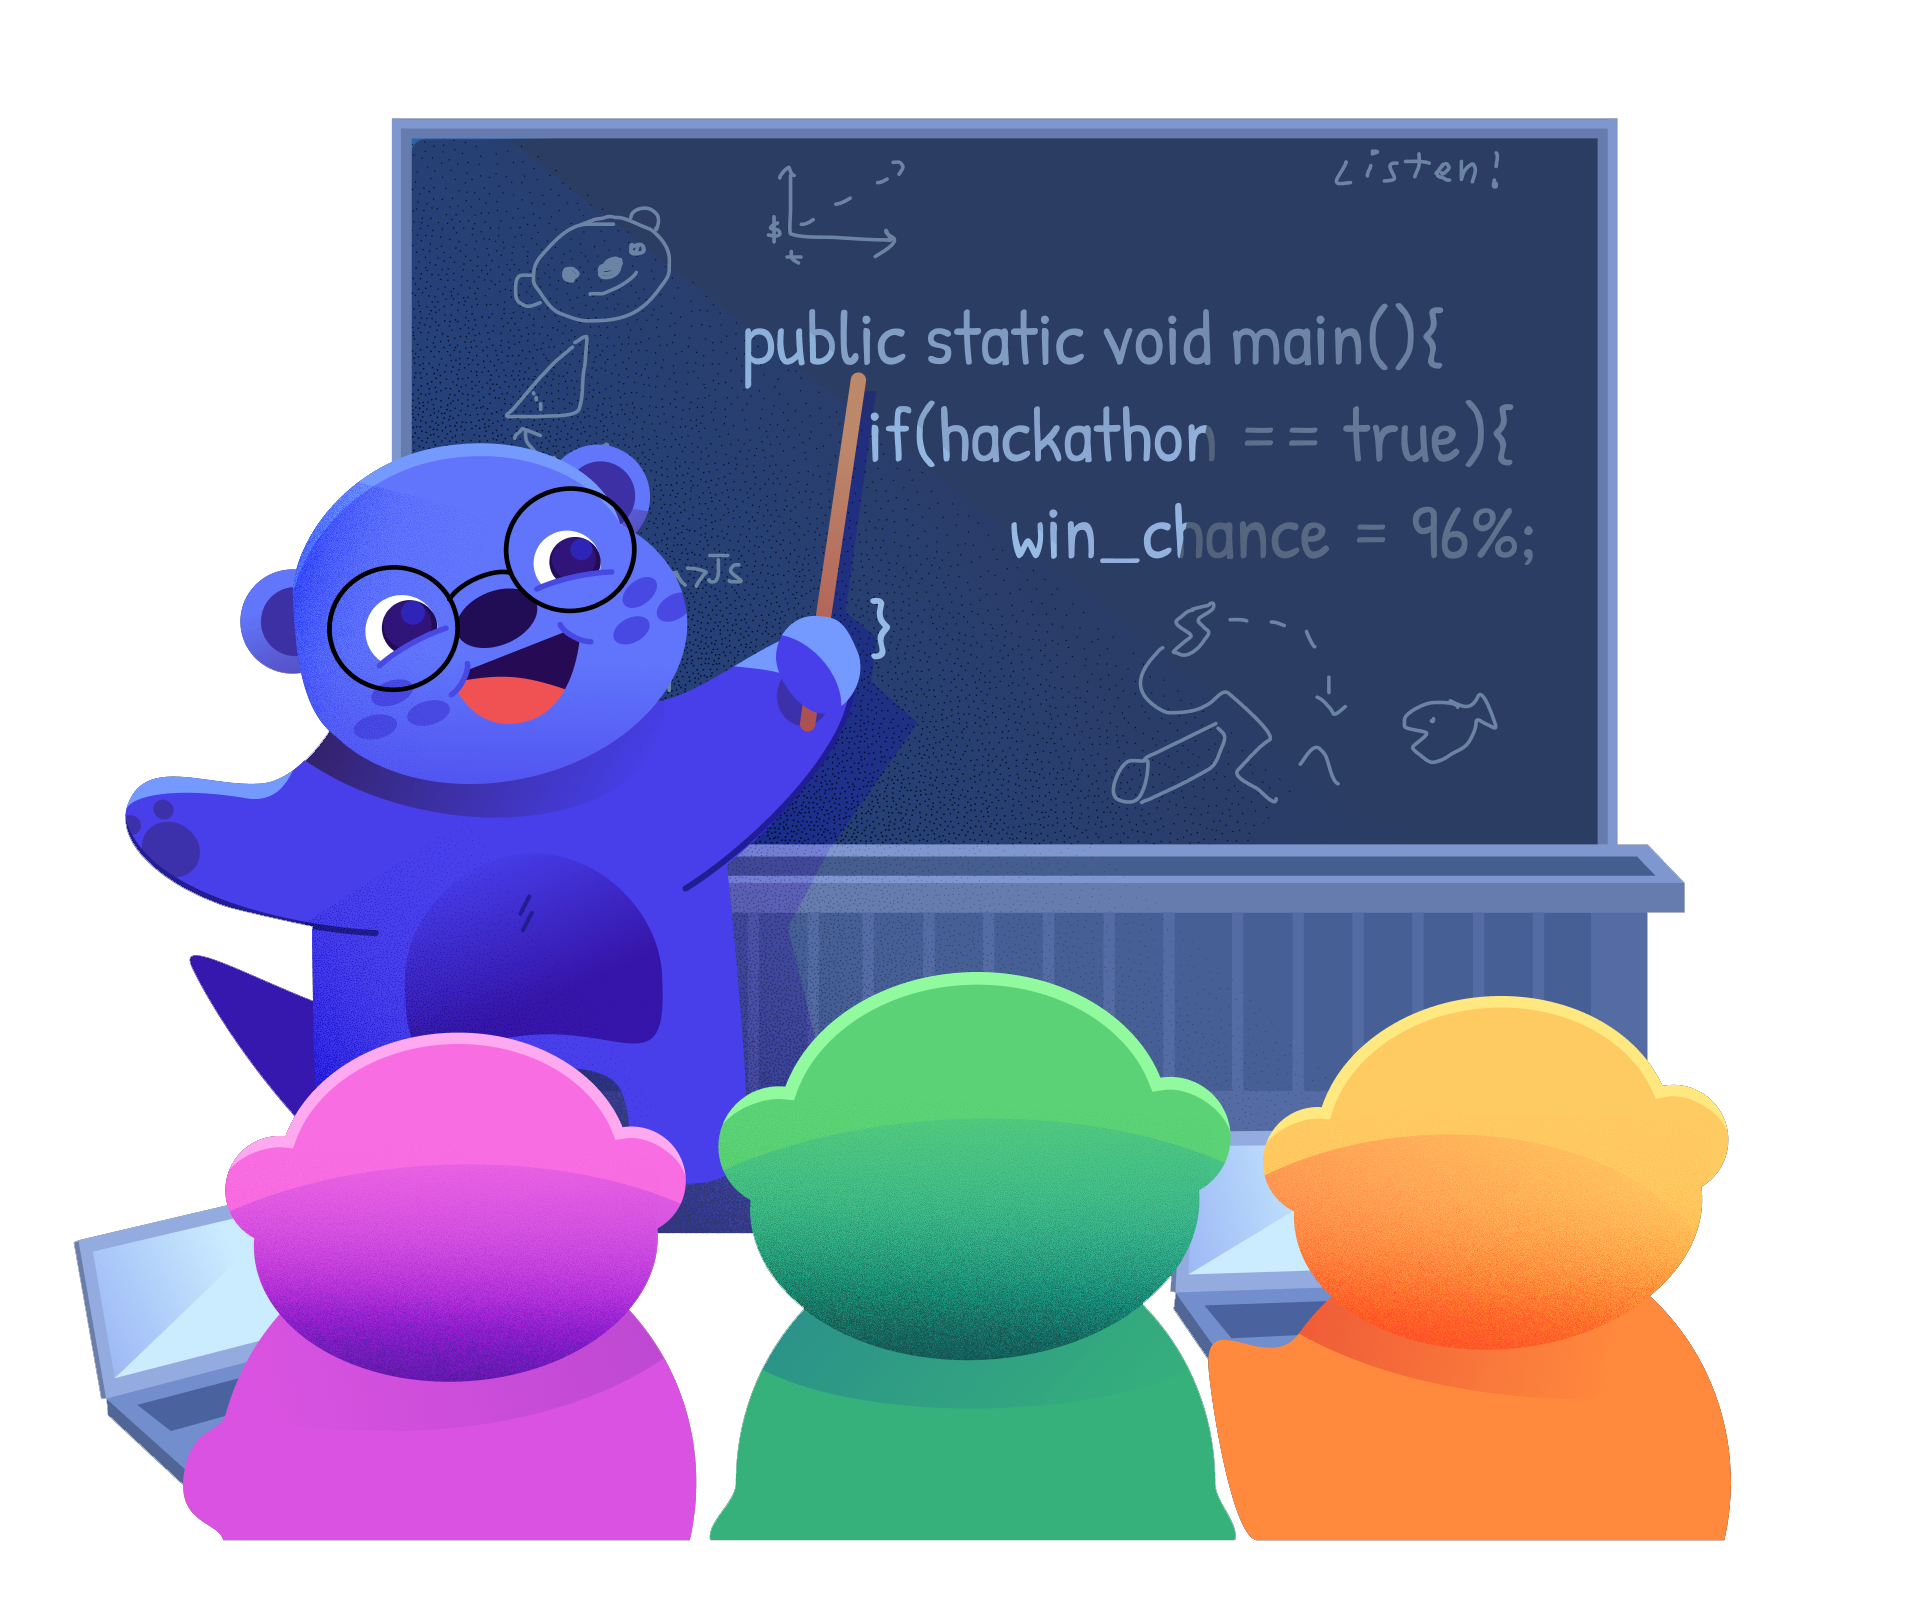
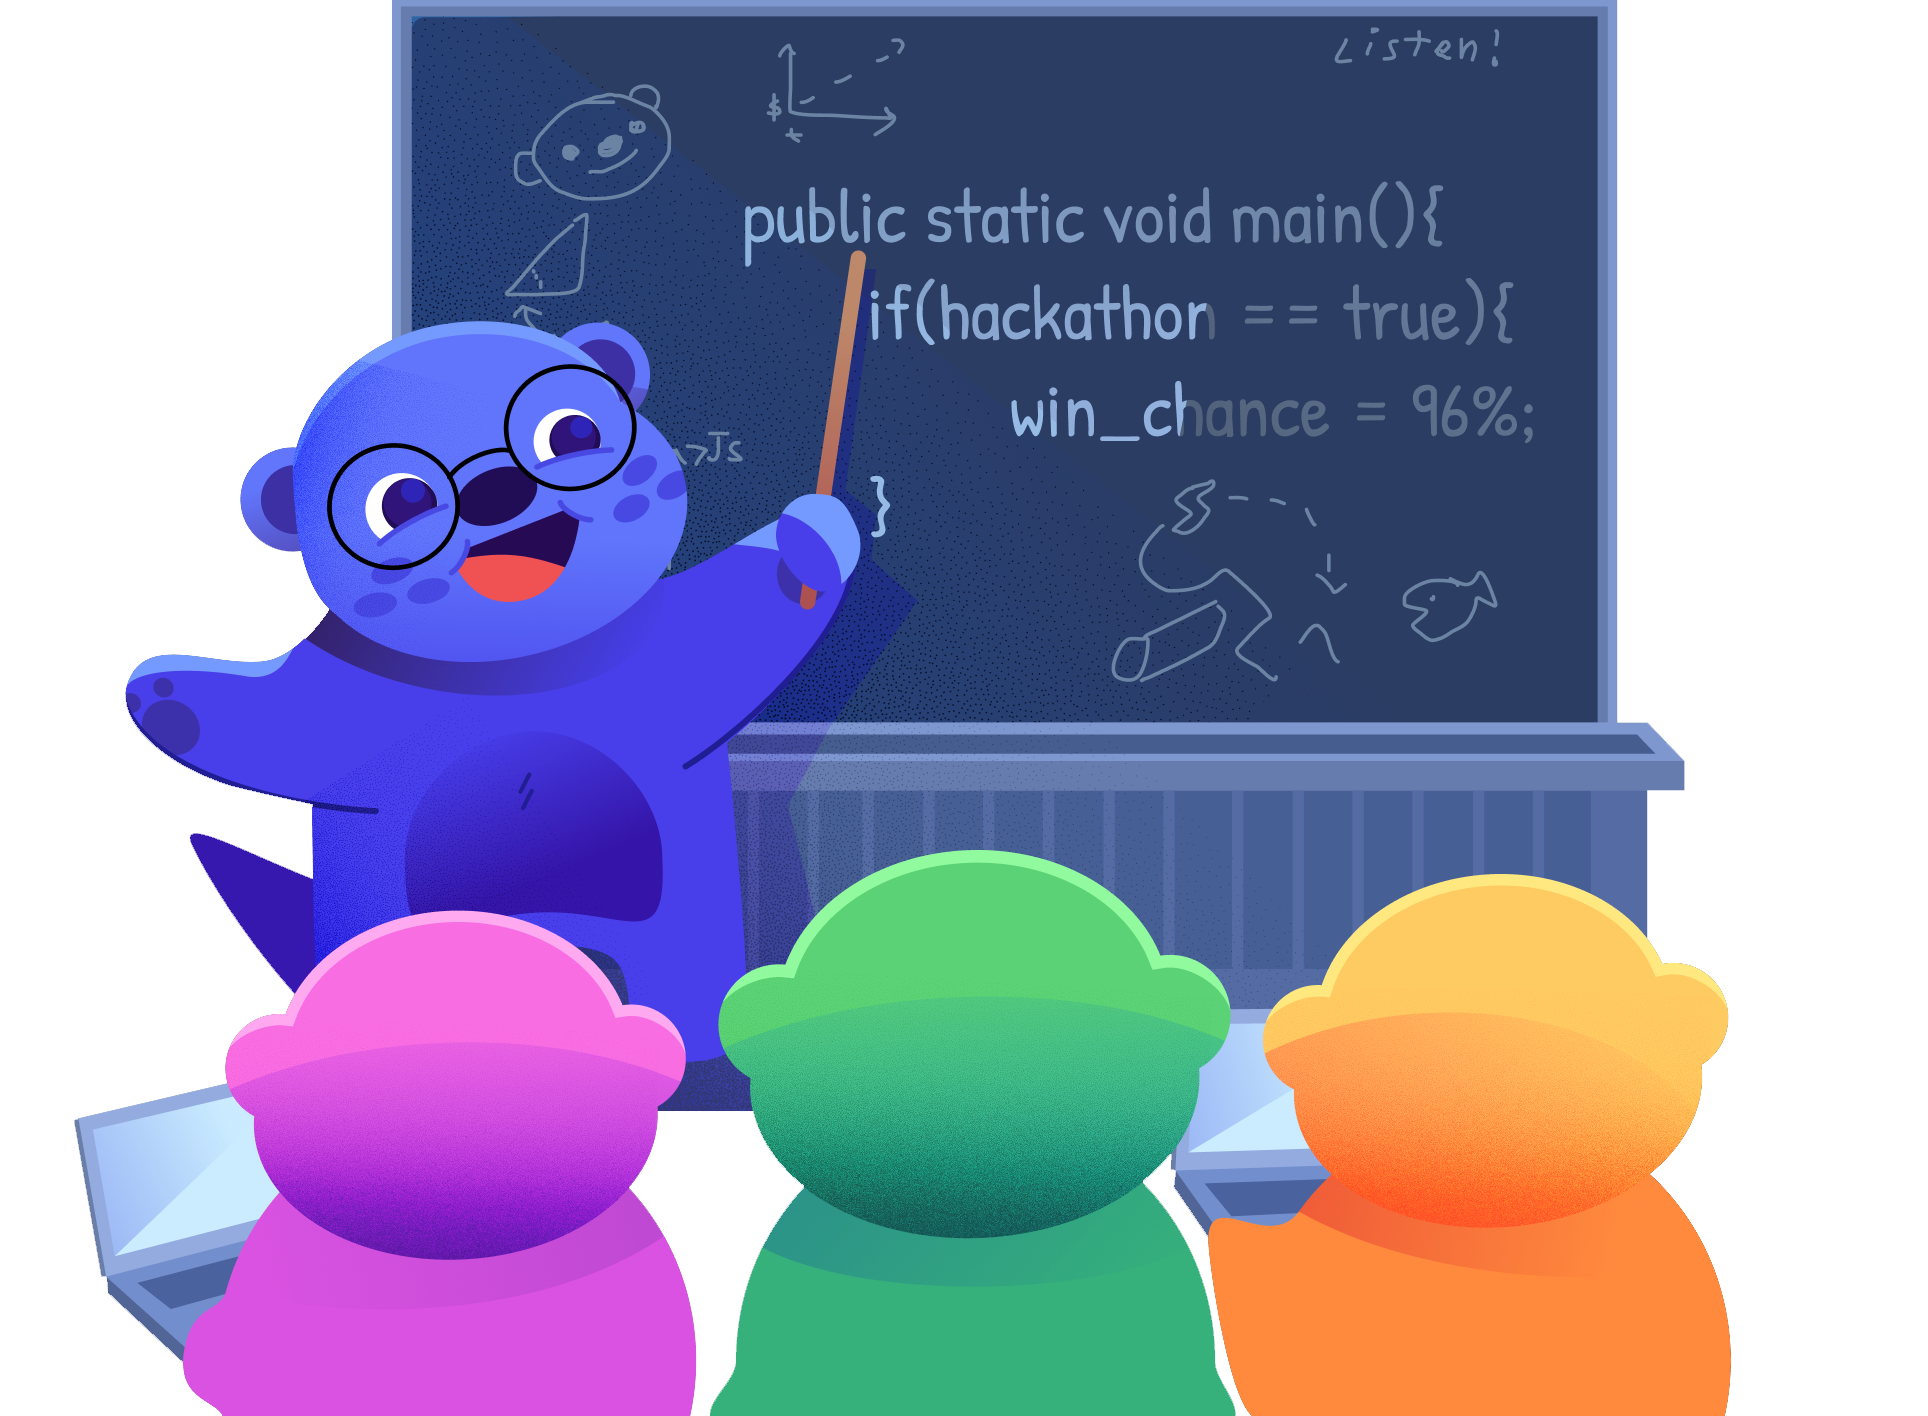
added logic for switch roles
moved section needing "use client" into its own component. Renamed some components to be more relevant to their section

diff --git a/src/app/join/page.tsx b/src/app/join/page.tsx
@@ -1,29 +1,33 @@
 import type { Metadata } from "next";
-import jobs from "@/lib/jobListing.json";
-import Link from "next/link";
 import Image from "next/image";
-import JobCard from "@/components/JobCard";
 import Card from "@/components/Card";
+import OpenRolesSection from "@/components/OpenRolesSection";
+
 
 export const metadata: Metadata = {
   title: "Join SFU Surge",
 };
 
 export default function joinTeam() {
+
+  
+
   return (
-    <main className="flex flex-col gap-24">
-      <section className="grid grid-cols-1 gap-12 md:grid-cols-2">
-        <div className="flex md:justify-center  ">
+    <main className="flex flex-col gap-24 md:gap-36">
+
+      <section className="flex  md:flex-row  w-full gap-8 lg:gap-12 flex-col-reverse items-center justify-center ">
+
+      <div className="flex md:justify-center h-full md:w-[40%]   ">
           <Image
             src={"/boo.png"}
-            width={1928}
-            height={1598}
+            width={1659}
+            height={1421}
             alt={"hello"}
-            className="object-contain  "
+            className="object-contain max-h-full"
           />
         </div>
 
-        <div className="flex flex-col gap-5 justify-center">
+      <div className="flex flex-col gap-5 justify-center w-fit  ">
           <h1 className="large-title emphasized text-pretty max-w-xl">
             Ready to Make an Impact With Surge?
           </h1>
@@ -32,13 +36,13 @@ export default function joinTeam() {
             technology, design, and beyond. Whether you're passionate about
             coding, logistics, or media, your skills can make a difference.{" "}
           </p>
-        </div>
+        </div>  
+        
+        
       </section>
 
       <section className="flex flex-col items-center text-center gap-2">
-        <span className="text-caption">
-          Benefits
-        </span>
+        <span className="text-caption">Benefits</span>
         <h2 className="title-1 emphasized mb-12"> Why Volunteer With Surge?</h2>
 
         <div className="grid grid-cols-1 md:grid-cols-3 gap-8">
@@ -62,29 +66,16 @@ export default function joinTeam() {
       </section>
 
       <section className="flex flex-col items-center text-center gap-2">
-        <span className="text-caption">
-          Upcoming Oppurtunity
-        </span>
+        <span className="text-caption">Upcoming Oppurtunity</span>
         <h2 className="title-1 emphasized mb-4"> Stormhacks 2024</h2>
-        <p className="paragraph">Join us as we prepare for our upcoming Hackathon event, where your contributions could help shape the future of technology! Be part of the team that brings innovative ideas to life.</p>
-        
+        <p className="paragraph">
+          Join us as we prepare for our upcoming Hackathon event, where your
+          contributions could help shape the future of technology! Be part of
+          the team that brings innovative ideas to life.
+        </p>
       </section>
 
-      <div className="grid grid-cols-1 md:grid-cols-2 lg:grid-cols-3 gap-8">
-        {jobs.length != 0 ? (
-          jobs.map((job, index) => (
-            <JobCard
-              url={`join/${job.url}`}
-              key={index}
-              title={job.title}
-              description={job.about}
-              team={job.team}
-            />
-          ))
-        ) : (
-          <div>no Jobs available</div>
-        )}
-      </div>
+     <OpenRolesSection/>
     </main>
   );
 }

diff --git a/src/components/OpenRolesSection.tsx b/src/components/OpenRolesSection.tsx
@@ -1,0 +1,84 @@
+"use client";
+import jobs from "@/lib/jobListing.json";
+import JobCard from "@/components/JobCard";
+import { teams } from "@/app/about/teamData";
+import { useEffect, useState } from "react";
+
+import JobTeamButton from "./JobTeamButton";
+
+export default function OpenRolesSection() {
+  const [activeButton, setActiveButton] = useState<string | null>(null);
+
+  useEffect(() => {
+    const selectedTeam = localStorage.getItem("selectedTeam") || "All";
+    setActiveButton(selectedTeam);
+  },[]);
+
+  const changeTeam = (buttonId: string) => {
+    setActiveButton(buttonId);
+    localStorage.setItem("selectedTeam", buttonId);
+  };
+
+  return (
+    <section className="flex items-center flex-col gap-12">
+      <div className=" max-w-xl text-center">
+        <span className="text-caption">Open Roles</span>
+      <h2 className="title-1">We want you to help us run hackathons and events</h2>
+
+      </div>
+     
+      <div className=" flex items-center justify-center max-w-3xl gap-2 flex-wrap">
+        <JobTeamButton
+          buttonFunction={() => changeTeam("All")}
+          key={0}
+          title="All"
+          icon={teams[1].icon}
+          isActive={activeButton === "All"}
+        />
+        {teams.map((team) => {
+          return (
+            <JobTeamButton
+              buttonFunction={() => changeTeam(team.name)}
+              key={team.id}
+              title={team.name}
+              icon={team.icon}
+              isActive={activeButton === team.name}
+            />
+          );
+        })}
+      </div>
+
+      <div className="grid grid-cols-1 md:grid-cols-2 lg:grid-cols-3 w-full gap-8">
+        {/* check if theres jobs? */}
+        {jobs.length !== 0 ? (
+          // there is jobs. Does the chosen team (active button) have any roles in the array OR is the active button set to all?
+          jobs.some((job) => job.team === activeButton) ||
+          activeButton === "All" ? (
+            jobs.map((job, index) =>
+              // there is a role in the chosen team available. what role is available OR is it the active button thats checked? if first then spit out roles, if second spit out all
+              activeButton === job.team || activeButton === "All" ? (
+                <JobCard
+                  url={`join/${job.url}`}
+                  key={index}
+                  title={job.title}
+                  description={job.about}
+                  team={job.team}
+                />
+              ) : // otherwise dont render anything (applies to other indexes when looping)
+              null
+            )
+          ) : (
+            // Otherwise there is no jobs and we're not selected on all
+            <div className="col-span-full w-full relative h-56 bg-overlay/80 rounded-2xl flex justify-center items-center">
+              <p className=" paragraph text-center text-pretty ">
+               {`There are currently no jobs available in ${activeButton}, check back later!`}
+              </p>
+            </div>
+          )
+        ) : (
+          <div>No jobs available</div> // this handles the case when there are no jobs in the array
+        )}
+      </div>
+    </section>
+  );
+}

diff --git a/src/app/join/[jobId]/page.tsx b/src/app/join/[jobId]/page.tsx
@@ -1,7 +1,6 @@
 import jobs from "@/lib/jobListing.json"; // Assuming your jobs.json file is here
 import { Metadata } from "next";
 
-
 type JobPageProps = {
   params: {
     jobId: string;
@@ -22,8 +21,8 @@ export default function JobPage({ params: { jobId } }: JobPageProps) {
   const job = jobs.find((job) => job.url === jobId);
 
   return (
-    <main className="flex gap-12 md:gap-12 flex-col md:flex-row">
-      <div className="flex flex-col gap-5 md:w-[40%]">
+    <main className="flex gap-12 xl:gap-48 flex-col md:flex-row w-full justify-center">
+      <div className="flex flex-col gap-5  ">
         <h1 className="large-title emphasized">{job?.title}</h1>
         <div className=" flex flex-col gap-2">
           <span className="text-base text-text-secondary font-medium flex gap-2">
@@ -80,14 +79,11 @@ export default function JobPage({ params: { jobId } }: JobPageProps) {
           </span>
         </div>
 
-        <a
-          href={`${job?.listing}`}
-          className=" button-link primary md items-center "
-        >
+        <a href={`${job?.listing}`} className=" button-link primary md w-full md:w-fit items-center justify-center ">
           Apply Now
         </a>
       </div>
-      <div className="flex flex-col gap-12">
+      <div className="flex flex-col gap-12  ">
         <div>
           <h2 className="title-2 mb-4">About this Role</h2>
           <p className="text-text-secondary paragraph">{job?.about}</p>
@@ -96,7 +92,9 @@ export default function JobPage({ params: { jobId } }: JobPageProps) {
           <h2 className="title-2 mb-4">Responsibilities</h2>
           <ul className="paragraph flex flex-col gap-2 text-text-secondary list-disc list-outside px-5">
             {job?.resonsibilities.map((responsibility, index) => (
-              <li className="text-lg leading-8" key={index}>{responsibility}</li>
+              <li className="text-lg leading-8" key={index}>
+                {responsibility}
+              </li>
             ))}
           </ul>
         </div>
@@ -104,7 +102,9 @@ export default function JobPage({ params: { jobId } }: JobPageProps) {
           <h2 className="title-2 mb-4">Skills</h2>
           <ul className="paragraph flex flex-col gap-2 text-text-secondary list-disc list-outside px-5">
             {job?.skills.map((responsibility, index) => (
-              <li className="text-lg leading-8" key={index}>{responsibility}</li>
+              <li className="text-lg leading-8" key={index}>
+                {responsibility}
+              </li>
             ))}
           </ul>
         </div>
@@ -112,7 +112,9 @@ export default function JobPage({ params: { jobId } }: JobPageProps) {
           <h2 className="title-2 mb-4">Commitement</h2>
           <ul className="paragraph flex flex-col gap-2 text-text-secondary list-disc list-outside px-5">
             {job?.commitment.map((responsibility, index) => (
-              <li className="text-lg leading-8" key={index}>{responsibility}</li>
+              <li className="text-lg leading-8" key={index}>
+                {responsibility}
+              </li>
             ))}
           </ul>
         </div>

diff --git a/src/app/globals.css b/src/app/globals.css
@@ -34,7 +34,7 @@
 
 @layer components {
   .button-link {
-    @apply border-t border-border-tertiary/15 block cursor-pointer rounded-full w-fit flex items-center transition-colors;
+    @apply border-t border-border-tertiary/15 cursor-pointer rounded-full w-fit flex items-center transition-colors;
   }
 
   .button-link.md {
@@ -46,7 +46,7 @@
   }
 
   .button-link.primary {
-    @apply bg-brand-primary hover:bg-brand-primary-hover active:bg-brand-primary-pressed focus:ring focus:ring-brand-primary;
+    @apply bg-brand-primary hover:bg-brand-primary-hover active:bg-brand-primary-pressed focus-visible:ring focus-visible:ring-brand-primary;
   }
 
   .button-link.secondary {
@@ -106,7 +106,7 @@
   }
 
   .content-wrapper{
-    @apply mx-auto px-6 sm:px-12 md:px-24 max-w-[90rem];
+    @apply mx-auto px-6 sm:px-12 md:px-16 max-w-[90rem];
   }
 
   :focus {

diff --git a/src/app/about/page.tsx b/src/app/about/page.tsx
@@ -1,6 +1,6 @@
 "use client";
 import { useEffect, useState } from "react";
-import RoleButton from "../../components/RoleButton";
+import AboutTeamButton from "../../components/AboutTeamButton";
 import TeamCard from "../../components/TeamCard";
 import {teams} from "./teamData";
 import data from "./data.json"
@@ -69,7 +69,7 @@ export default function Page() {
             <div className=" grid grid-cols-3 xs:grid-cols-4 md:grid-cols-5  lg:grid-cols-3 xl:grid-cols-4 gap-4 ">
               {teams.map((team) => {
                 return (
-                  <RoleButton
+                  <AboutTeamButton
                     buttonFunction={() => changeTeam(team.name)}
                     key={team.id}
                     title={team.name}

diff --git a/src/components/JobCard.tsx b/src/components/JobCard.tsx
@@ -15,7 +15,7 @@ type JobCardProps = {
     className,
   }: JobCardProps) {
     return (
-      <Link  href={url} className={`${className} w-full bg-[#151519]/90 rounded-3xl flex flex-col p-8 gap-4 border border-gray-500/0 hover:border-gray-200/10 transition-all duration-300 cursor-pointer`}>
+      <Link  href={url} className={` ${className}  w-full bg-surface rounded-3xl flex flex-col p-8 gap-4 border border-gray-500/0 hover:border-border-tertiary/10 transition-all duration-500 cursor-pointer`}>
         <span className="text-caption">{team}</span>
         <h2 className="text-xl font-medium">{title}</h2>
         <p className="text-base text-text-secondary font-normal line-clamp-3 text-ellipsis">{description}</p>

diff --git a/src/components/Card.tsx b/src/components/Card.tsx
@@ -13,15 +13,15 @@ type CardProps = {
     className,
   }: CardProps) {
     return (
-      <div className={`${className} w-full bg-[#1b1b1f] rounded-3xl flex flex-col items-center p-4 gap-4  text-center  `}>
+      <div className={`${className} w-full bg-surface rounded-3xl flex flex-col items-center px-12 py-12 gap-4  text-center  `}>
 
         <div className="flex md:justify-center ">
         <Image
         src={"/boo.png"}
-        width={1928}
-        height={1598}
+        width={1659}
+        height={1421}
         alt={"hello"}
-        className="object-contain aspect-square max-w-48 md:max-w-full "
+        className="object-contain aspect-square max-w-48  "
        />
         </div>
   

diff --git a/src/components/JobTeamButton.tsx b/src/components/JobTeamButton.tsx
@@ -1,0 +1,28 @@
+import { MouseEventHandler } from "react";
+
+type JobTeamButtonProps = {
+    className?: string,
+    title: string,
+    icon: JSX.Element,
+    isActive: boolean,
+    buttonFunction?:()=> void,
+
+  };
+
+  export default function JobTeamButton({
+    title,
+    className,
+    icon,
+    isActive,
+    buttonFunction,
+  }: JobTeamButtonProps) {
+
+    
+
+    return (
+      <button onClick={buttonFunction} className={`${className} flex gap-2  button-link md ${isActive?" primary text-text-primary": " secondary text-text-secondary"}`}>
+      <div className=" " >{icon}</div>
+      {title}</button>
+    );
+  }
+  

diff --git a/src/components/AboutTeamButton.tsx b/src/components/AboutTeamButton.tsx
@@ -1,6 +1,6 @@
 import { MouseEventHandler } from "react";
 
-type RoleButtonProps = {
+type AboutTeamButtonProps = {
     className?: string,
     title: string,
     icon: JSX.Element,
@@ -8,12 +8,12 @@ type RoleButtonProps = {
 
   };
 
-  export default function RoleButton({
+  export default function AboutTeamButton({
     title,
     className,
     icon,
     buttonFunction,
-  }: RoleButtonProps) {
+  }: AboutTeamButtonProps) {
 
     
 

diff --git a/tailwind.config.ts b/tailwind.config.ts
@@ -11,6 +11,7 @@ const config: Config = {
       colors: {
         sunken: "rgb(var(--sunken) / <alpha-value>)",
         raised: "rgb(var(--raised) / <alpha-value>)",
+        overlay: "rgb(var(--overlay) / <alpha-value>)",
         "raised-hover": "rgb(var(--raised-hover) / <alpha-value>)",
         "text-primary": "rgb(var(--text-primary) / <alpha-value>)",
         "text-secondary": "rgb(var(--text-secondary) / <alpha-value>)",

diff --git a/src/app/layout.tsx b/src/app/layout.tsx
@@ -25,7 +25,7 @@ export default function RootLayout({
     
     <html className={`${GeistSans.variable} ${GeistMono.variable}`} lang="en">
       <body className="font-GeistSans ">
-        <div className="content-wrapper mt-[calc(10rem+3.5rem)]">
+        <div className="content-wrapper md:mt-[calc(10rem+3.5rem)] mt-[8rem]">
         <div className="surge-radial-gradient"></div>
         <Nav />
         {children}
